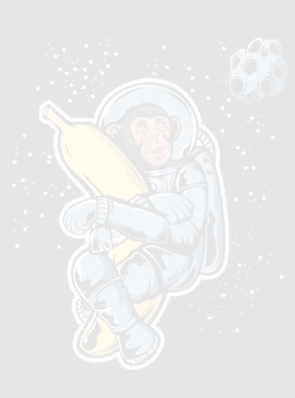
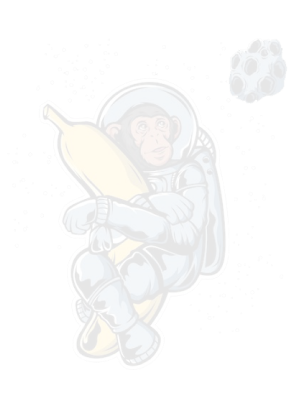
some alignment updated

diff --git a/src/components/_external-pages/landing/YourFunds.js b/src/components/_external-pages/landing/YourFunds.js
@@ -38,12 +38,12 @@ export default function YourFunds() {
   return (
     <RootStyle initial="initial" animate="animate" variants={varWrapEnter}>
       <Container sx={{ position: 'relative' }}>
-        <Image src="/static/landing/your_funds_1.png" sx={{ position: 'absolute', left: -70, top: 120, zIndex: 1 }} />
+        <Image src="/static/landing/your_funds_1.png" sx={{ position: 'absolute', left: 20, top: 50, zIndex: 1 }} />
         <Image
           src="/static/landing/your_funds_2.png"
           sx={{ position: 'absolute', left: '50%', top: 0, zIndex: 1, transform: 'translate(-50%, -12%)' }}
         />
-        <Image src="/static/landing/your_funds_3.png" sx={{ position: 'absolute', right: -70, top: 50, zIndex: 1 }} />
+        <Image src="/static/landing/your_funds_3.png" sx={{ position: 'absolute', right: -20, top: -130, zIndex: 1 }} />
         <ContentStyle>
           <Box>
             <Typography
@@ -54,9 +54,9 @@ export default function YourFunds() {
                 textAlign: 'center'
               }}
             >
-              1000X LEVERAGE, NO BORROWING FEES,
+              YOU MAINTAIN CUSTODAY
               <br />
-              NO OPEN INTEREST
+              OF YOUR FUNDS
             </Typography>
             <div
               style={{
@@ -74,7 +74,7 @@ export default function YourFunds() {
         <BoxStyle>
           <Image
             src="/static/landing/yourfunds-hero.png"
-            sx={{ position: 'absolute', left: 70, top: -70, zIndex: 10 }}
+            sx={{ position: 'absolute', left: 70, top: -20, zIndex: 10 }}
           />
           <Stack spacing={4} sx={{ marginLeft: 50 }}>
             <Stack direction="row" spacing={3} alignItems="center">
@@ -115,10 +115,6 @@ export default function YourFunds() {
         <Image
           src="/static/landing/your_funds_5.png"
           sx={{ position: 'absolute', right: '-95px', bottom: '-230px', zIndex: 1 }}
-        />
-        <Image
-          src="/static/landing/borrow-ellipse.png"
-          sx={{ position: 'absolute', left: 0, top: 60, transform: 'translate(-50%, -15%)', zIndex: 10 }}
         />
         <Image
           src="/static/landing/pink-ellipse-left.png"

diff --git a/src/components/_external-pages/landing/GetPaid.js b/src/components/_external-pages/landing/GetPaid.js
@@ -50,7 +50,7 @@ export default function GetPaid() {
                 textAlign: 'center'
               }}
             >
-              TRADE IN DAI, GET,
+              TRADE IN DAI, GET
               <br />
               PAID IN DAI
             </Typography>
@@ -103,11 +103,7 @@ export default function GetPaid() {
         </BoxStyle>
         <Image
           src="/static/landing/borrow-ellipse.png"
-          sx={{ position: 'absolute', left: 0, top: 260, transform: 'translate(-50%, -15%)', zIndex: 10 }}
-        />
-        <Image
-          src="/static/landing/pink-ellipse-left.png"
-          sx={{ position: 'absolute', right: 0, top: 60, transform: 'translate(50%, -25%)', zIndex: 10 }}
+          sx={{ position: 'absolute', left: -150, top: 420, transform: 'translate(-50%, -15%)', zIndex: 10 }}
         />
       </Container>
     </RootStyle>

diff --git a/src/layouts/main/MainFooter.js b/src/layouts/main/MainFooter.js
@@ -46,7 +46,7 @@ export default function MainFooter() {
                 color="common.white"
                 variant="body2"
                 component={RouterLink}
-                sx={{ display: 'block', textAlign: 'center' }}
+                sx={{ display: 'block', textAlign: 'center', fontSize: '18px' }}
               >
                 {link.name}
               </Link>
